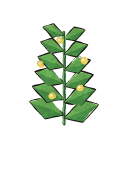
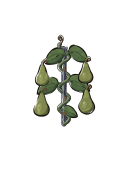
feat(crafting): the grow capsule grows a gourd vine
A vine winds up a rusted stake through four stages, heart leaves
drooping off it, and four pear gourds hang at the last. Picked from
generated references and redrawn in code (2026-11-13-gourd-vine).

Changed region(s): [[0.2188, 0.0938, 0.7812, 0.6562]]

diff --git a/tools/anime-art/subjects/machines.js b/tools/anime-art/subjects/machines.js
@@ -569,17 +569,55 @@ const computerScreen = (f) => (a) => {
   a.flat(band(9.6, 2.8, 30, 12), '#0c2438');
   for (let i = 0; i < 5; i++) { const y = 3.8 + i * 1.6, w = 6 + ((i * 7 + f * 5) % 12); a.flat(band(11, y, 11 + w, y + .8), i % 3 ? '#8ad8f0' : '#e0f6ff'); }
 };
+// The capsule's gourd vine (picked 2026-11-13): it winds up a rusted stake, heart leaves droop off it, four pear gourds hang at the last stage.
+const VINE = { base: '#56723e', shade: '#3a5230', deep: '#26381f', lite: '#738e4e', spec: '#9aac6c', ink: '#0d1a10' };
+const LEAF = { base: '#4c6a3a', shade: '#34502e', deep: '#22361f', lite: '#6a8648', spec: '#93a866', ink: '#0d1a10' };
+const GOURD = { base: '#8a9246', shade: '#5c6832', deep: '#3c4824', lite: '#a8b25e', spec: '#d4d896', ink: '#1a1e0e' };
+const TWIG = { base: '#7a5a36', shade: '#523a26', lite: '#9a7648', spec: '#9a7648', ink: '#1c1210' };
 const plantStage = (s) => (a) => {
-  const foot = 31, top = [26, 20, 12, 7][s], cx = 16, wide = [2.6, 4.6, 6.6, 8.6][s];
-  const leaf = (x, y, dir, l, m) => a.shape(poly(x, y, x + dir * l * .5, y - l * .55, x + dir * l, y - l * .4, x + dir * l * .55, y + l * .1), m, { outer: s > 0 ? undefined : false, lite: poly(x, y, x + dir * l * .5, y - l * .55, x + dir * l, y - l * .4) });
-  const G1 = { base: '#3f9a3c', shade: '#256a36', lite: '#79c850', spec: '#c8ec84', ink: '#0d2a18' };
-  a.tube(`M${cx} ${foot}L${cx} ${top + 1}`, .8, G1, { bare: true });
-  const n = [1, 2, 4, 6][s];
-  for (let i = 0; i < n; i++) {
-    const y = foot - 1.4 - (i * (foot - top - 2)) / Math.max(1, n - .5), l = wide * (1 - i * .08);
-    leaf(cx, y, 1, l, G1); leaf(cx, y - .8, -1, l, G1);
+  const foot = 31, cx = 16, top = [25.5, 19, 12.5, 11][s], stakeTop = 11.6, r = 1.25, pitch = 5.2;
+  // The vine as a helix round the stake: the runs behind it drawn first, the stake, then the runs in front.
+  const runs = [[], []];
+  let run = null, front = null;
+  for (let y = foot; y >= top - .01; y -= .25) {
+    const t = ((foot - y) / pitch) * 2 * Math.PI, x = cx + r * Math.sin(t), f = Math.cos(t) > 0 ? 1 : 0;
+    if (f !== front) { if (run) run.push([x, y]); run = [[x, y]]; runs[f].push(run); front = f; } else run.push([x, y]);
   }
-  if (s === 3) for (const [x, y] of [[10, 16], [21, 15], [13, 24], [20, 22], [15, 10]]) { a.flat(ell(x, y, .9), '#f0d040'); a.flat(ell(x - .2, y - .2, .35), '#fff4b0'); }
+  const path = (pts) => 'M' + pts.map(([x, y]) => `${x.toFixed(2)} ${y.toFixed(2)}`).join('L');
+  const vineX = (y) => cx + r * Math.sin(((foot - y) / pitch) * 2 * Math.PI);
+  for (const p of runs[0]) if (p.length > 1) a.tube(path(p), .75, VINE);
+  a.tube(`M${cx} ${foot}L${cx} ${stakeTop + .6}`, 1, GUN);
+  a.shape(rr(cx - .8, stakeTop, 1.6, .8, .3), GUN, { lite: band(cx - .8, stakeTop, cx + .8, stakeTop + .3) });
+  for (const [x, y] of [[cx - .2, 17.4], [cx + .2, 24.6], [cx, 28.4]]) a.flat(ell(x, y, .35, .5), '#8a5a3a');
+  for (const p of runs[1]) if (p.length > 1) a.tube(path(p), .75, VINE);
+  // A tendril curls off the vine's tip, brown as the gourds' stems.
+  if (s > 0) a.tube(`M${vineX(top).toFixed(2)} ${top}Q${(vineX(top) + 1.2).toFixed(2)} ${top - 1.4} ${(vineX(top) + .2).toFixed(2)} ${top - 2}Q${(vineX(top) - .6).toFixed(2)} ${top - 1.4} ${(vineX(top) + .1).toFixed(2)} ${top - 1.1}`, .35, TWIG, { spec: false });
+  // A heart leaf on its stalk: base by the vine, the tip drooping outward.
+  const leaf = (y, dir, l) => {
+    const bx = vineX(y) + dir * .9, by = y - .2, tx = bx + dir * l, ty = by + l * .5;
+    a.tube(`M${vineX(y).toFixed(2)} ${y}L${bx.toFixed(2)} ${by}`, .3, VINE, { spec: false });
+    const up = `C${bx + dir * l * .05} ${by - l * .5} ${bx + dir * l * .8} ${by - l * .4} ${tx} ${ty}`;
+    const d = `M${bx} ${by}${up}C${bx + dir * l * .7} ${by + l * .62} ${bx + dir * l * .12} ${by + l * .55} ${bx} ${by}Z`;
+    a.shape(d, LEAF, { lite: `M${bx} ${by}${up}Q${bx + dir * l * .45} ${by + l * .1} ${bx} ${by}Z`, shade: .5, lines: [`M${bx} ${by}Q${bx + dir * l * .5} ${by + l * .12} ${tx} ${ty}`] });
+  };
+  const leaves = [
+    [[28.4, 1, 2.8], [27, -1, 2.4]],
+    [[28, -1, 3.4], [24.8, 1, 4.2], [21.2, -1, 3.8]],
+    [[27.6, 1, 4.4], [24, -1, 5], [19.6, 1, 5.2], [15.6, -1, 4.8]],
+    [[27.6, 1, 3.4], [21, -1, 5.2], [20.4, 1, 5.2], [13.6, -1, 4.8], [13, 1, 4.8]],
+  ][s];
+  for (const [y, dir, l] of leaves) leaf(y, dir, l);
+  if (s < 3) return;
+  // A pear gourd: a narrow neck under its curled stem, the belly low; its stalk runs back to the vine.
+  const gourd = (x, y0, h, from) => {
+    const w = h * .64;
+    a.tube(`M${vineX(from).toFixed(2)} ${from}Q${(x + vineX(from)) / 2} ${from - 1.6} ${x} ${y0 - .4}`, .3, VINE, { spec: false });
+    const d = `M${x} ${y0}C${x + w * .2} ${y0} ${x + w * .18} ${y0 + h * .32} ${x + w * .42} ${y0 + h * .55}C${x + w * .62} ${y0 + h * .78} ${x + w * .42} ${y0 + h} ${x} ${y0 + h}` +
+      `C${x - w * .42} ${y0 + h} ${x - w * .62} ${y0 + h * .78} ${x - w * .42} ${y0 + h * .55}C${x - w * .18} ${y0 + h * .32} ${x - w * .2} ${y0} ${x} ${y0}Z`;
+    a.shape(d, GOURD, { shade: .7, lite: ell(x - w * .16, y0 + h * .62, w * .16, h * .16), spec: ell(x - w * .2, y0 + h * .56, w * .05, h * .05) });
+    a.tube(`M${x} ${y0 + .1}Q${x + .2} ${y0 - .9} ${x + .9} ${y0 - 1}Q${x + 1.3} ${y0 - .6} ${x + .8} ${y0 - .4}`, .35, TWIG, { spec: false });
+  };
+  gourd(10.6, 16, 5.4, 14); gourd(21.4, 15.4, 5.4, 13.4); gourd(10.4, 23, 6, 21.4); gourd(21.6, 22.4, 6, 20.8);
 };
 const growLight = (a) => { a.flat(band(9, 7, 23, 8), '#ff78c0'); a.flat(band(12, 7.2, 20, 7.7), '#ffd8ec'); };
 const podGlass = (a) => {

diff --git a/docs/decisions/2026-11-13-gourd-vine.md b/docs/decisions/2026-11-13-gourd-vine.md
@@ -1,0 +1,31 @@
+# The grow capsule grows a gourd vine
+
+- Status: accepted
+- Date: 2026-11-13
+
+## Context
+
+The grow capsule showed a green stick with diamond leaves and yellow dots for fruit. It read as a placeholder, and it did
+not match the pear-shaped fruit a seed now gives ([fruit-not-biomass](2026-11-12-fruit-not-biomass.md)).
+
+This was also the first pick made from generated references. An image model (gpt-image, through the Figma connector) drew
+five really different plants, each in four stages bearing the fruit. The user picked the gourd vine on a stake, and Claude
+redrew it in code. Generated pictures are references only: the game's pictures stay drawn by `tools/anime-art`, by its
+rules.
+
+## Decision
+
+- **A rusted stake** stands in the capsule's soil at every stage, part of the capsule, not of the plant.
+- **A vine winds up the stake** (`plantStage` in `tools/anime-art/subjects/machines.js`). It is drawn as a helix: the runs
+  behind the stake first, then the stake, then the runs in front. It reaches higher at each stage, and from the second
+  stage it ends in a brown tendril.
+- **Heart leaves on stalks**, drooping outward and alternating sides: 2, 3, 4, then 5.
+- **The last stage carries four pear gourds**, olive like the fruit's icon, each with a curled brown stem, hanging from stalks
+  under a leaf.
+- The leaves are muted greens, darker than the old plant's on the dark glass. The user saw them in play at the testbed and
+  kept them.
+
+## Deliberately not handled
+
+- Spores grow the same vine, though they give glowberries. A plant of their own is a later pick.
+- The plant still does not sway or grow between its four pictures, as before.

diff --git a/docs/decisions/index.md b/docs/decisions/index.md
@@ -337,3 +337,4 @@ stale. Read an ADR only when a README, plan or this list points you to it. A new
 | [food-and-the-body](2026-11-12-food-and-the-body.md) | Food and the body | accepted |  |
 | [fruit-not-biomass](2026-11-12-fruit-not-biomass.md) | Fruit, not biomass | accepted |  |
 | [one-to-understand](2026-11-12-one-to-understand.md) | One of each part is enough to understand a thing | accepted |  |
+| [gourd-vine](2026-11-13-gourd-vine.md) | The grow capsule grows a gourd vine | accepted |  |
